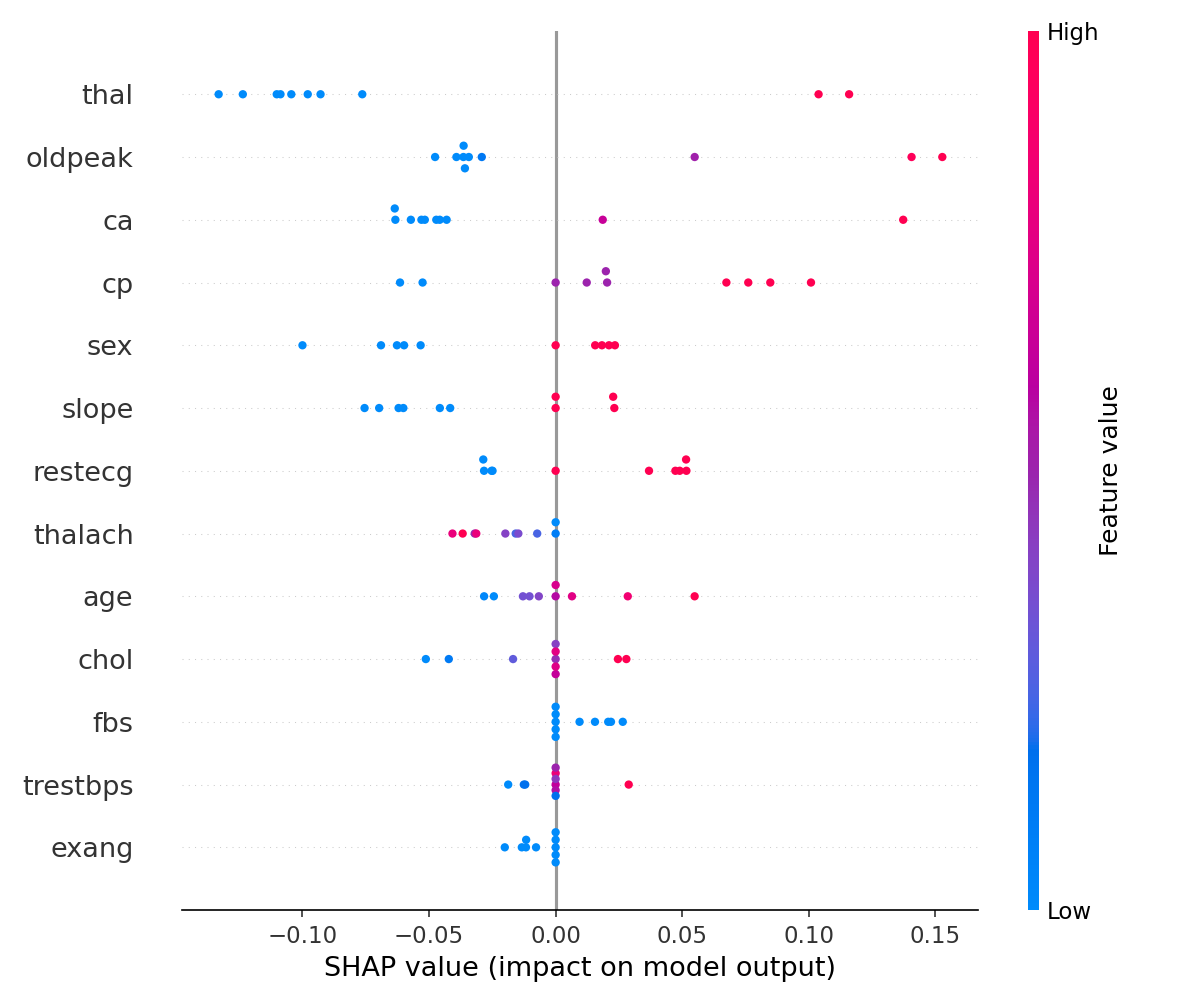
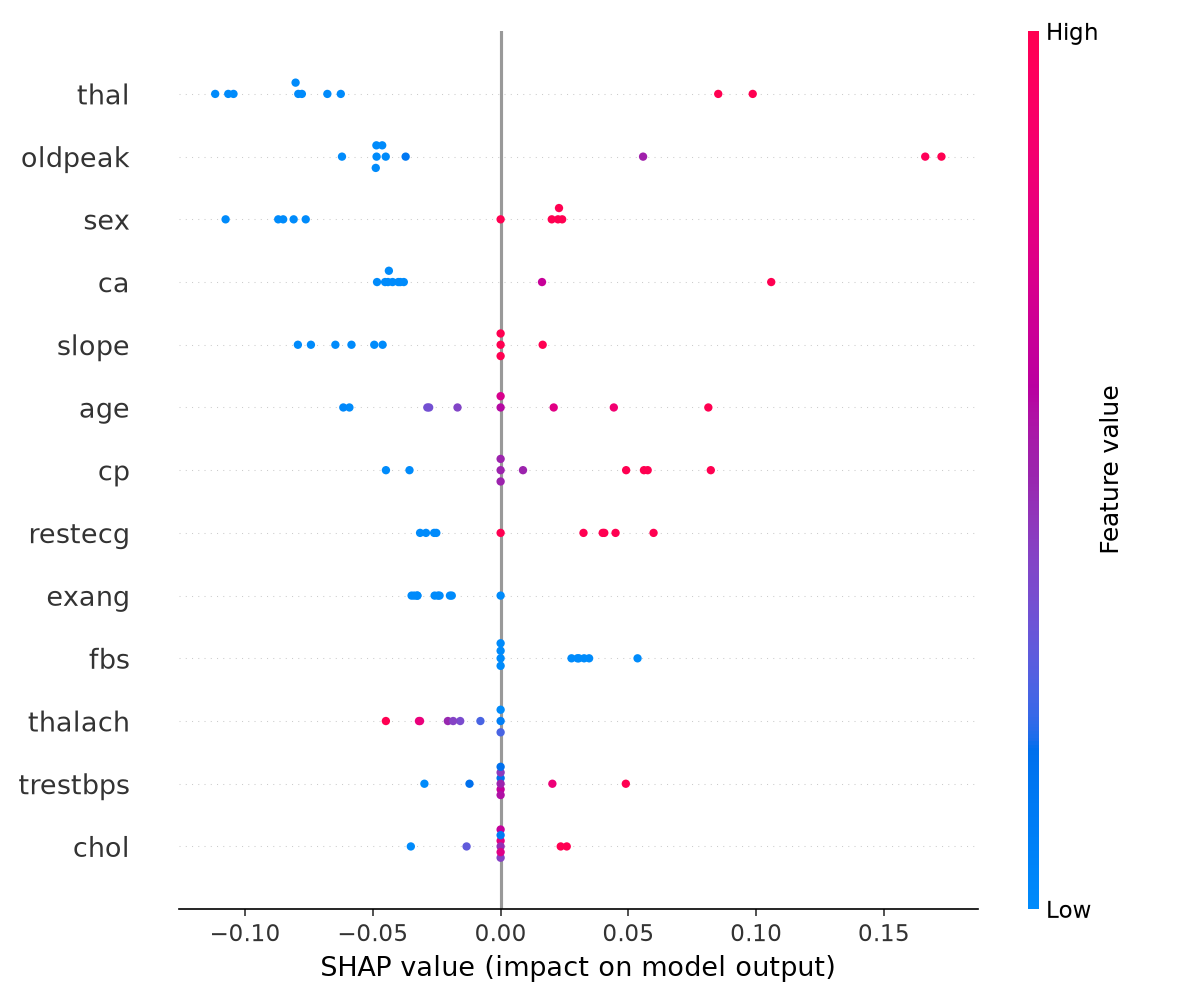
Plotting of results

diff --git a/plot_metrics.py b/plot_metrics.py
@@ -1,0 +1,38 @@
+import matplotlib
+matplotlib.use('Agg')
+import matplotlib.pyplot as plt
+import numpy as np
+import os
+
+metrics = ['Accuracy', 'Precision', 'Recall', 'F1-Score', 'AUC', 'Specificity']
+mlp_scores = [83.33, 84.62, 78.57, 81.48, 93.53, 87.50]
+qnn_scores  = [83.33, 84.62, 78.57, 81.48, 93.30, 87.50]
+
+x = np.arange(len(metrics))
+width = 0.35
+
+fig, ax = plt.subplots(figsize=(10, 6))
+
+bars1 = ax.bar(x - width/2, mlp_scores, width, label='Classical MLP', color='#2a78d6', zorder=3)
+bars2 = ax.bar(x + width/2, qnn_scores, width, label='Hybrid QNN',    color='#eb6834', zorder=3)
+
+for bar in bars1:
+    ax.text(bar.get_x() + bar.get_width()/2, bar.get_height() + 0.3,
+            f'{bar.get_height():.2f}', ha='center', va='bottom', fontsize=9, color='#2a78d6')
+for bar in bars2:
+    ax.text(bar.get_x() + bar.get_width()/2, bar.get_height() + 0.3,
+            f'{bar.get_height():.2f}', ha='center', va='bottom', fontsize=9, color='#eb6834')
+
+ax.set_xlabel('Metrics', fontsize=13)
+ax.set_ylabel('Score (%)', fontsize=13)
+ax.set_title('Classical MLP vs Hybrid QNN — Performance Comparison', fontsize=14, fontweight='bold')
+ax.set_xticks(x)
+ax.set_xticklabels(metrics, fontsize=11)
+ax.set_ylim(70, 100)
+ax.legend(fontsize=12)
+ax.grid(axis='y', linestyle='--', alpha=0.5, zorder=0)
+
+os.makedirs('results/plots', exist_ok=True)
+plt.tight_layout()
+plt.savefig('results/plots/metrics_comparison.png', dpi=300, bbox_inches='tight')
+print("Saved to results/plots/metrics_comparison.png")
